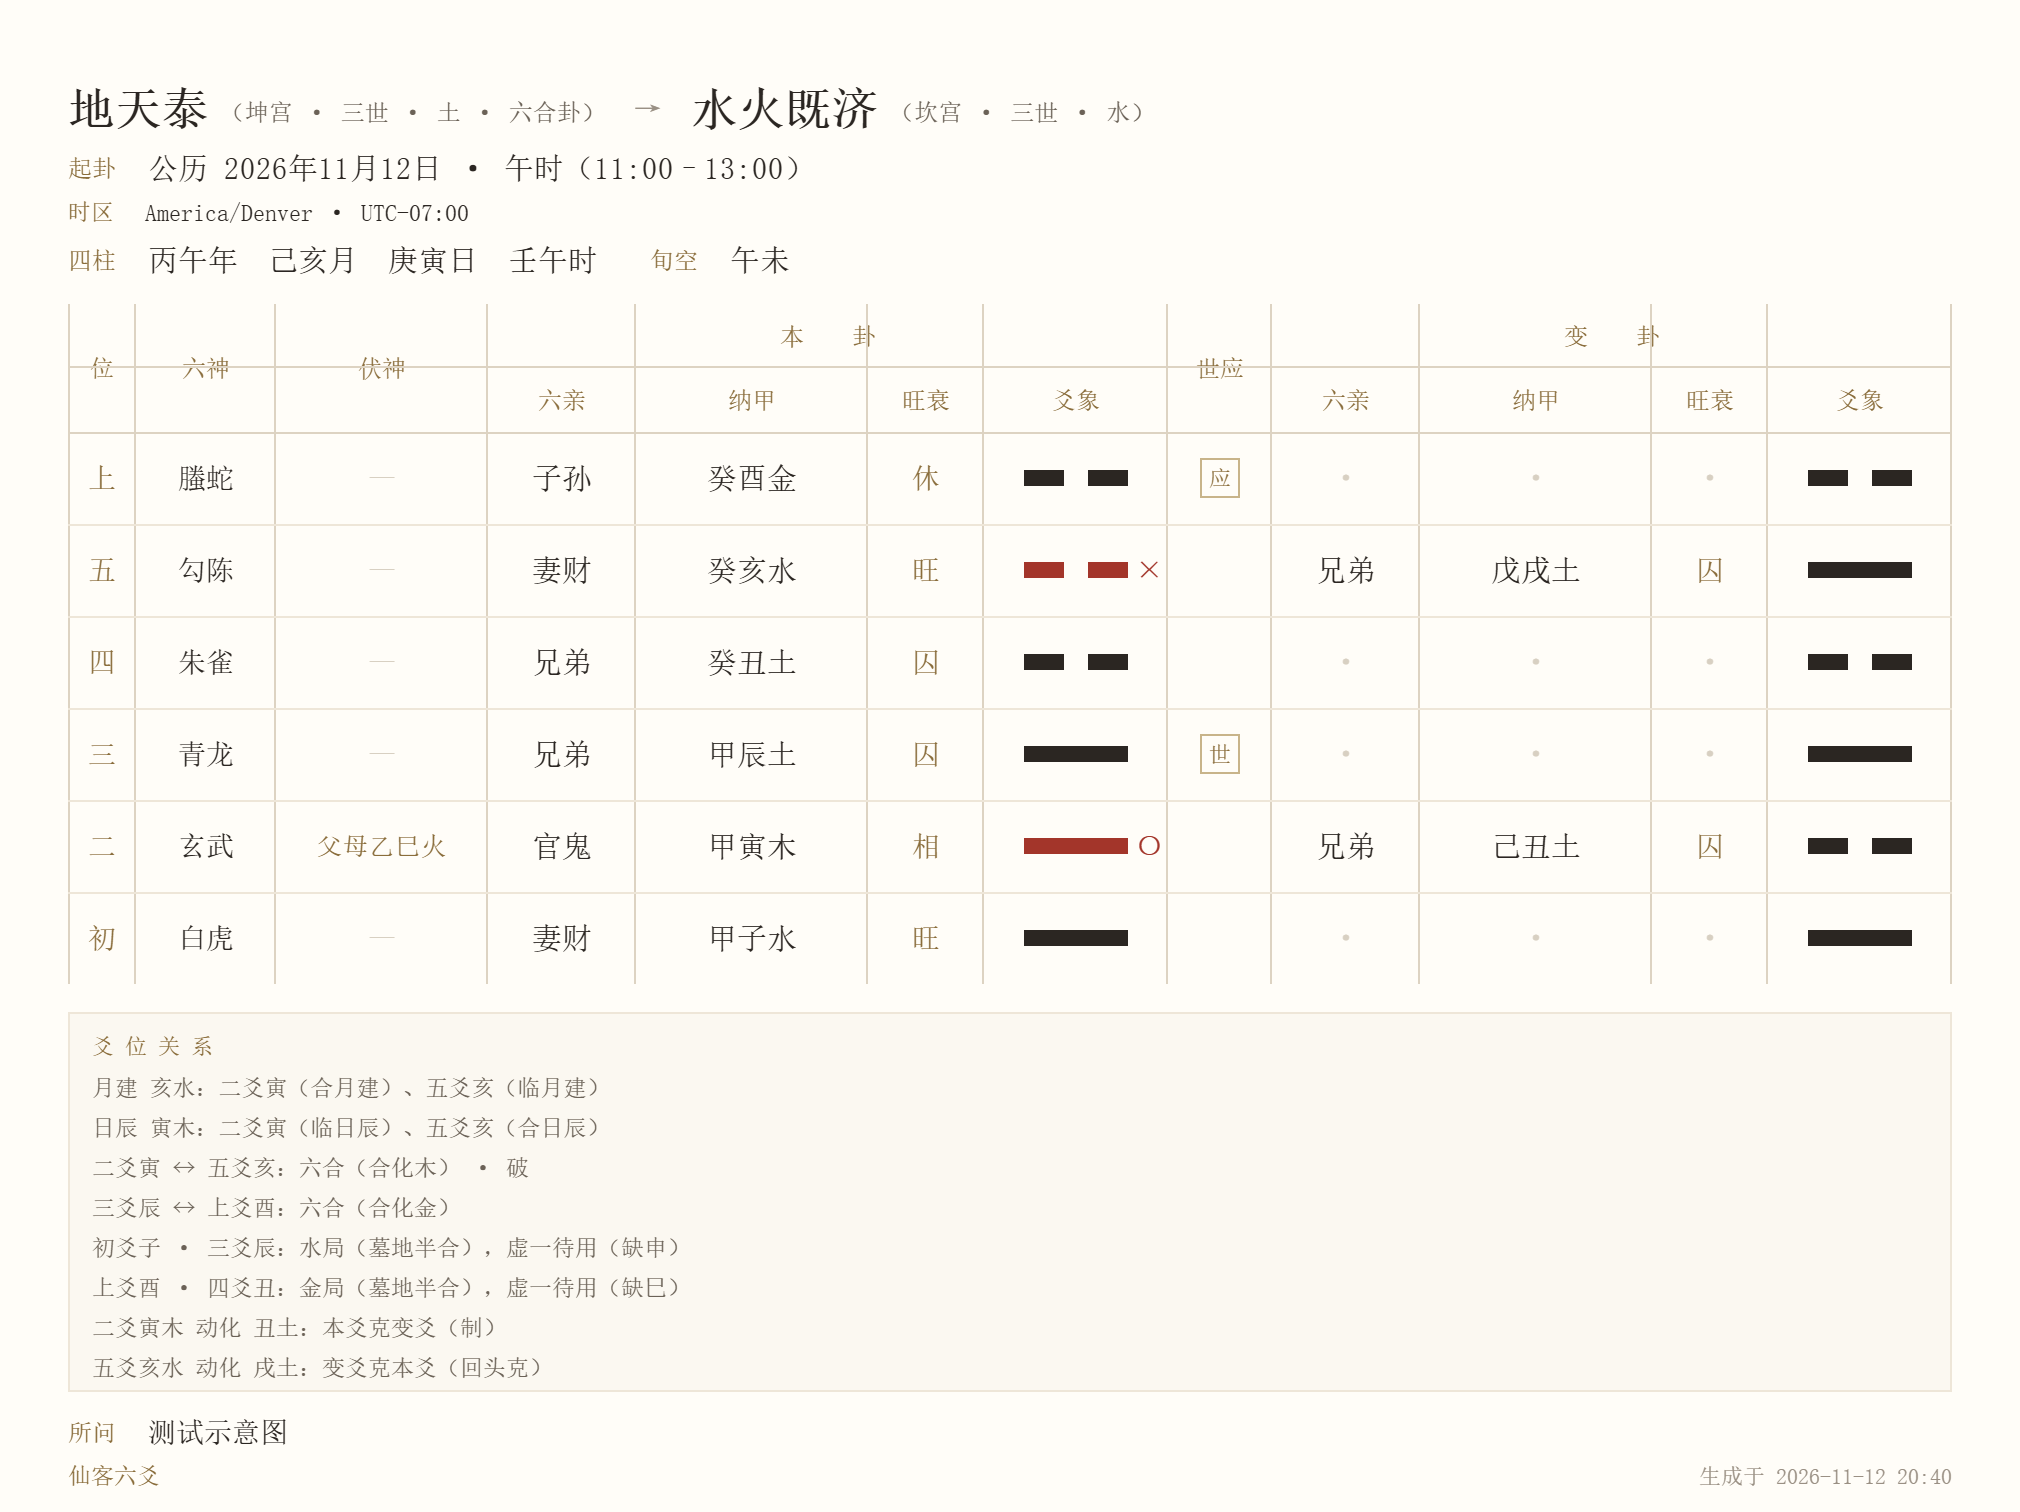
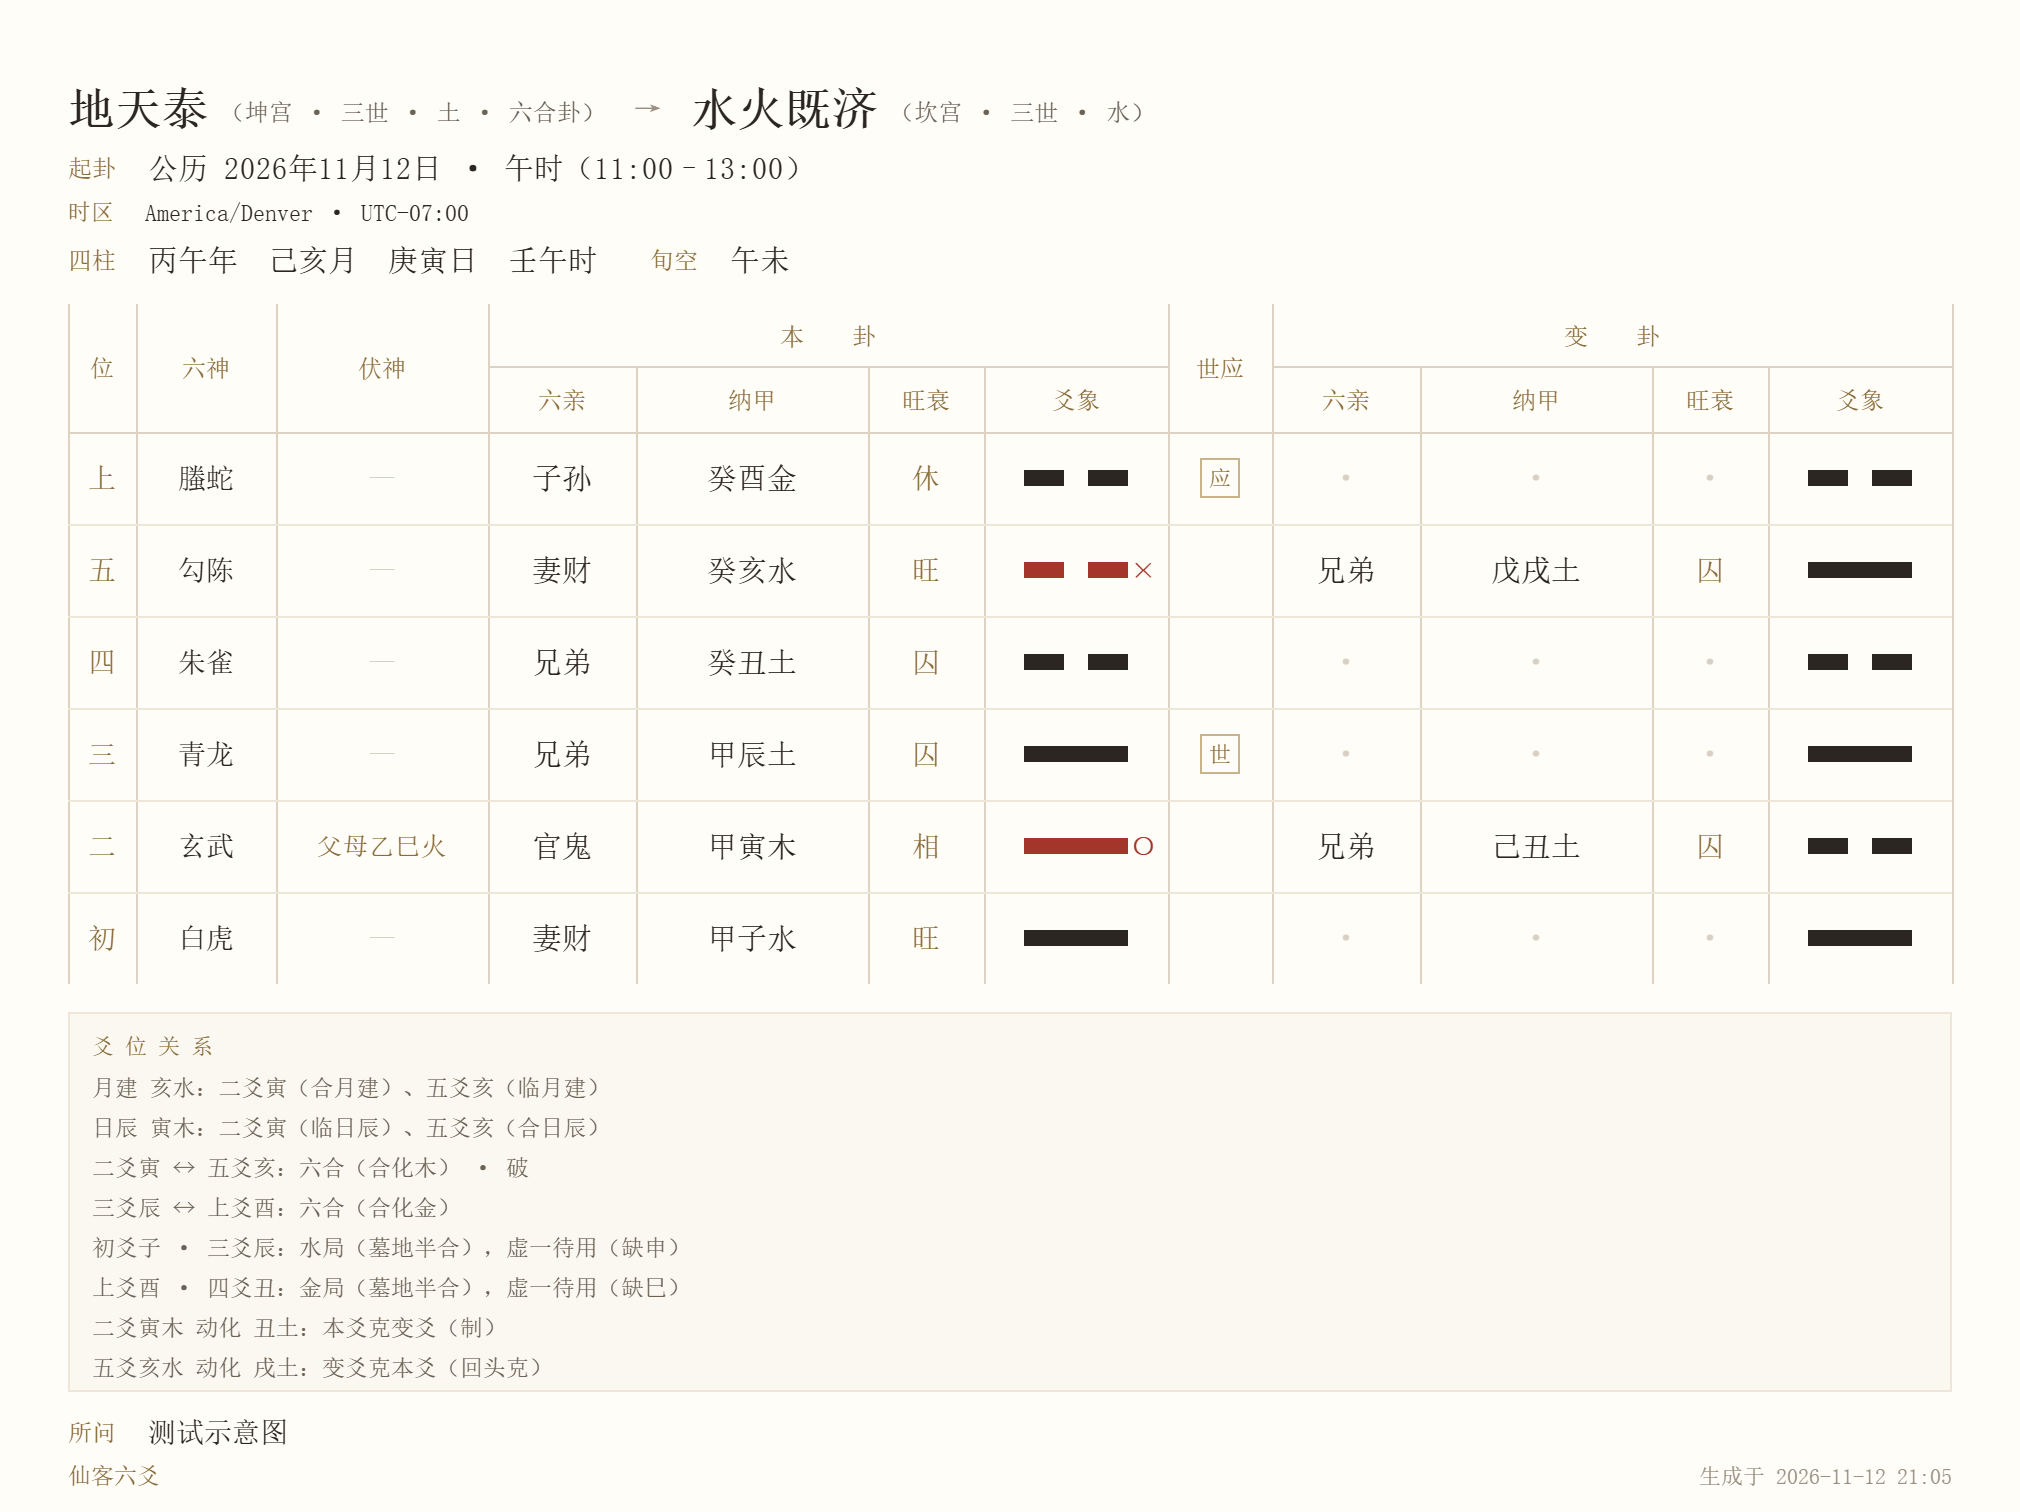
Add files via upload

diff --git a/index.html b/index.html
@@ -2120,6 +2120,7 @@ function buildChartCanvas(){
   const xL = pad, xR = pad + cw;
   const h1 = tableTop, h2 = tableTop + 32, t0 = tableTop + headH;
   const line = function(yy){ ctx.beginPath(); ctx.moveTo(xL, yy + .5); ctx.lineTo(xR, yy + .5); ctx.stroke(); };
+  const seg = function(x1, x2, yy){ ctx.beginPath(); ctx.moveTo(x1, yy + .5); ctx.lineTo(x2, yy + .5); ctx.stroke(); };
 
   T(ctx, '位', cx[0], h1 + 32, 12, '#8a6d3b', 'center', false, cols[0] - 6);
   T(ctx, '六神', cx[1], h1 + 32, 12, '#8a6d3b', 'center', false, cols[1] - 6);
@@ -2138,18 +2139,27 @@ function buildChartCanvas(){
     T(ctx, '旺衰', cx[10], h2 + 16, 12, '#8a6d3b', 'center', false, cols[10] - 6);
     T(ctx, '爻象', cx[11], h2 + 16, 12, '#8a6d3b', 'center', false, cols[11] - 6);
   }
-  line(tableTop + 31);
+  /* 跨行表头（位/六神/伏神/世应）下面不画横线，避免线穿过文字 */
+  seg(bx[3], bx[7], tableTop + 31);
+  if (hasBian) seg(bx[8], bx[12], tableTop + 31);
   line(t0);
 
-  /* 竖线 */
-  ctx.beginPath();
+  /* 竖线：本卦/变卦分组内部的分隔线从第二行表头才开始，避免切过 colspan 表头文字 */
+  const vline = function(x, y1, y2){
+    ctx.beginPath();
+    ctx.moveTo(x + .5, y1);
+    ctx.lineTo(x + .5, y2);
+    ctx.stroke();
+  };
   let vx = xL;
   for (let i = 0; i < cols.length; i++){
-    if (i === 0) { ctx.moveTo(vx + .5, tableTop); ctx.lineTo(vx + .5, t0 + rowH * 6); }
+    if (i === 0) vline(xL, tableTop, t0 + rowH * 6);
     vx += cols[i];
-    ctx.moveTo(vx - .5, tableTop); ctx.lineTo(vx - .5, t0 + rowH * 6);
+    const boundary = i + 1;
+    const internal = (boundary >= 4 && boundary <= 6)
+                  || (hasBian && boundary >= 9 && boundary <= 11);
+    vline(vx, internal ? h2 : tableTop, t0 + rowH * 6);
   }
-  ctx.stroke();
 
   /* 六爻 */
   const kongSet = {};
@@ -2177,7 +2187,7 @@ function buildChartCanvas(){
     }
 
     drawBar(ctx, cx[6], cy, pp.bits[i], pp.moving[i]);
-    if (pp.moving[i]) T(ctx, pp.bits[i] ? '○' : '×', cx[6] + 37, cy, 13, '#a3352a', 'center', true);
+    if (pp.moving[i]) T(ctx, pp.bits[i] ? '○' : '×', cx[6] + 34, cy, 12, '#a3352a', 'center', true);
 
     T(ctx, wangShuai(monthWx, ZHI_WX[gz[1]]) || '·', cx[5], cy, 14, '#8a6d3b', 'center', false, cols[5] - 6);
 

diff --git a/sw.js b/sw.js
@@ -1,8 +1,8 @@
 /* 六爻装卦 · 离线缓存
    第一次联网打开后，浏览器把页面存进本地；此后断网也能打开。
-   改动工具本体时，把 CACHE 的版本号加一（v10 → v11），用户下次联网会自动换新。 */
+   改动工具本体时，把 CACHE 的版本号加一（v12 → v13），用户下次联网会自动换新。 */
 
-const CACHE = 'liuyao-tool-v10';
+const CACHE = 'liuyao-tool-v12';
 const ASSETS = ['./', './index.html', './manifest.webmanifest', './icon-192.png', './icon-512.png', './icon-512-maskable.png', './apple-touch-icon.png'];
 
 self.addEventListener('install', function (e) {

diff --git a/README.md b/README.md
@@ -56,7 +56,7 @@
 
 在线版打开过一次就会把整页存进浏览器缓存，此后不联网也能用，还能「添加到主屏幕」，像 App 一样点开。
 
-离线版核心仍是那一个 HTML 文件，约 118 KB，所有代码、卦表、节气表都在里面；在线安装版另带 manifest 和图标。单独保存 HTML 时没有安装元数据，但装卦、出图不受影响。
+离线版核心仍是那一个 HTML 文件，约 119 KB，所有代码、卦表、节气表都在里面；在线安装版另带 manifest 和图标。单独保存 HTML 时没有安装元数据，但装卦、出图不受影响。
 
 > 微信内置浏览器能打开在线版，但**不会缓存**——想离线得用系统浏览器打开。
 
@@ -98,7 +98,7 @@
 
 **一、极轻。**
 
-核心 HTML 单文件，约 118 KB，零依赖、零构建、零安装。双击就能用，十年后双击还是能用——没有 npm 包会失效，没有构建链会坏掉。
+核心 HTML 单文件，约 119 KB，零依赖、零构建、零安装。双击就能用，十年后双击还是能用——没有 npm 包会失效，没有构建链会坏掉。
 
 **二、历法信源权威。**
 
